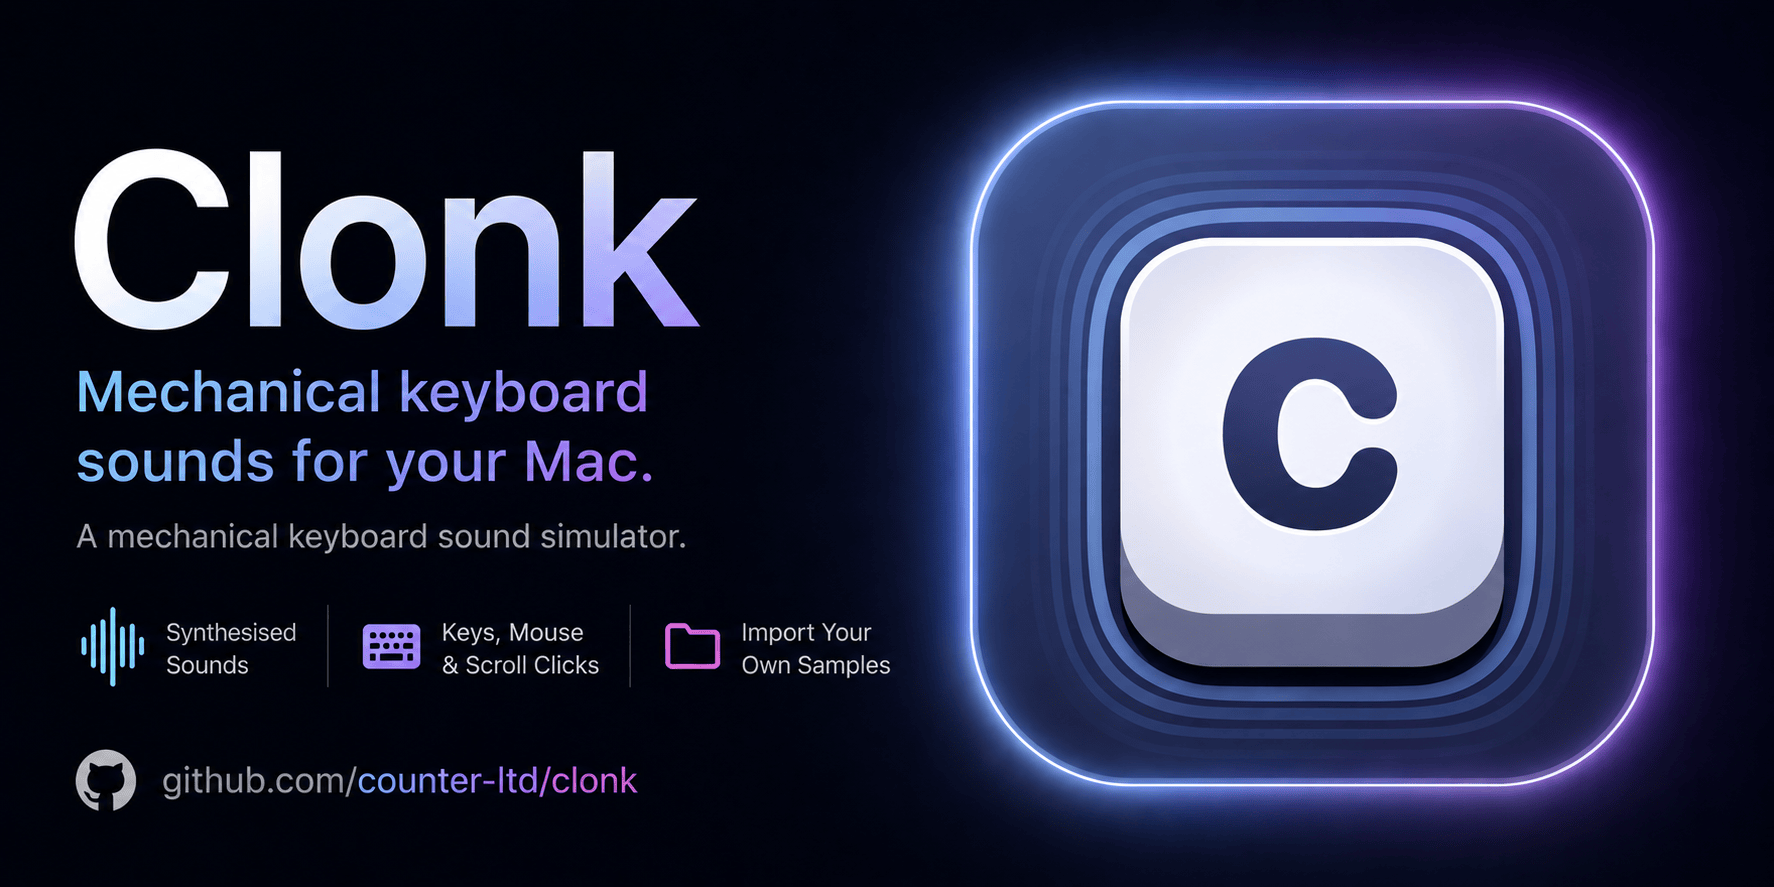
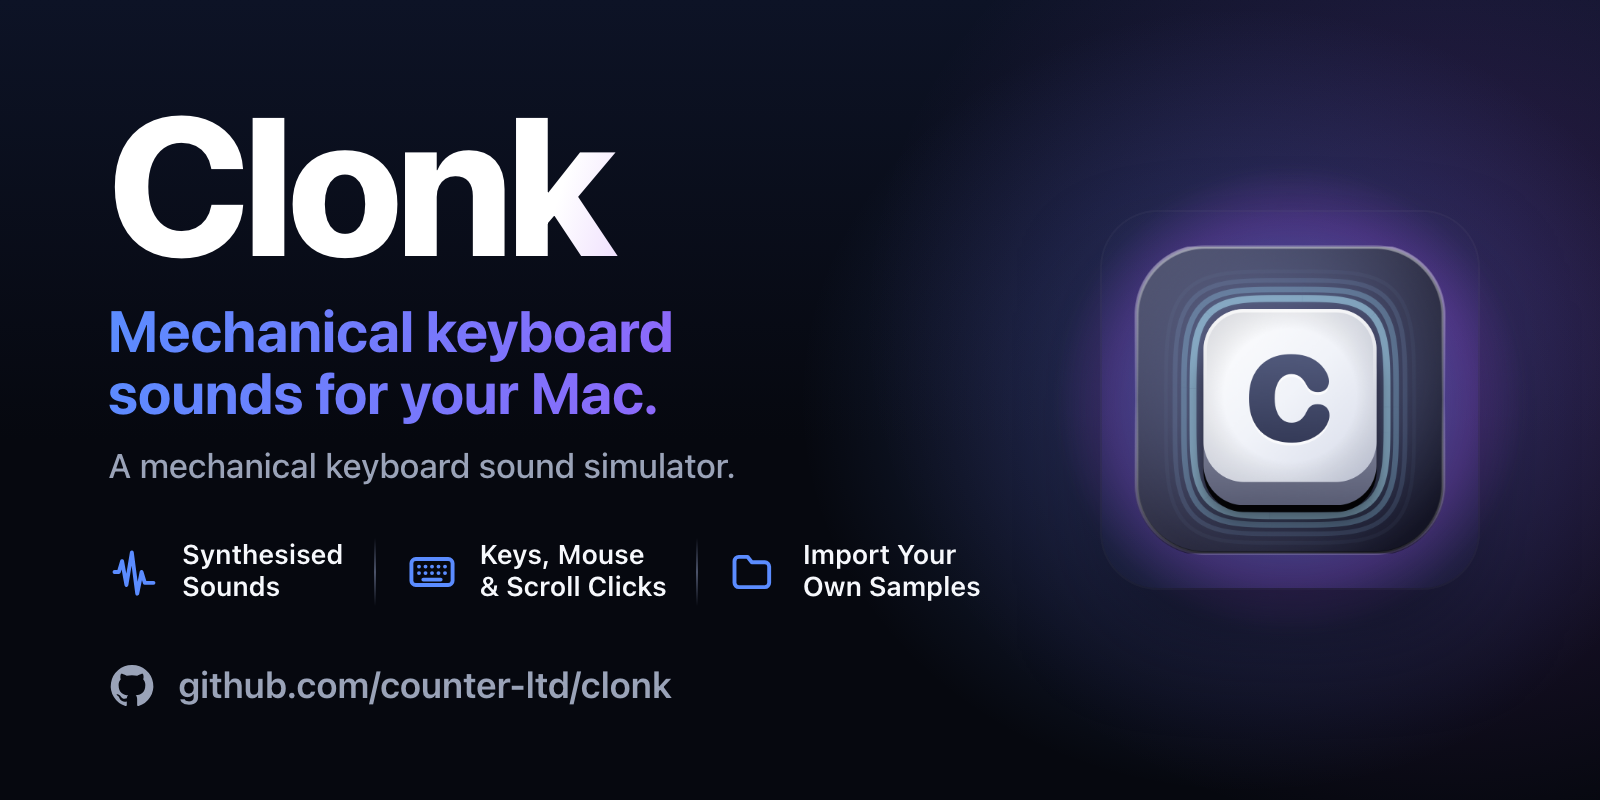
media

diff --git a/README.md b/README.md
@@ -38,7 +38,7 @@ Built natively in Swift for macOS Tahoe — menu-bar agent, no Dock icon.
 
 <div align="center">
 
-<img src="Resources/screenshots/settings.jpeg" width="380" alt="Settings tab"> <img src="Resources/screenshots/sounds.jpeg" width="380" alt="Sounds tab">
+<img src="Resources/screenshots/settings-framed.png" width="320" alt="Settings"> <img src="Resources/screenshots/sounds-framed.png" width="320" alt="Sounds">
 
 </div>
 